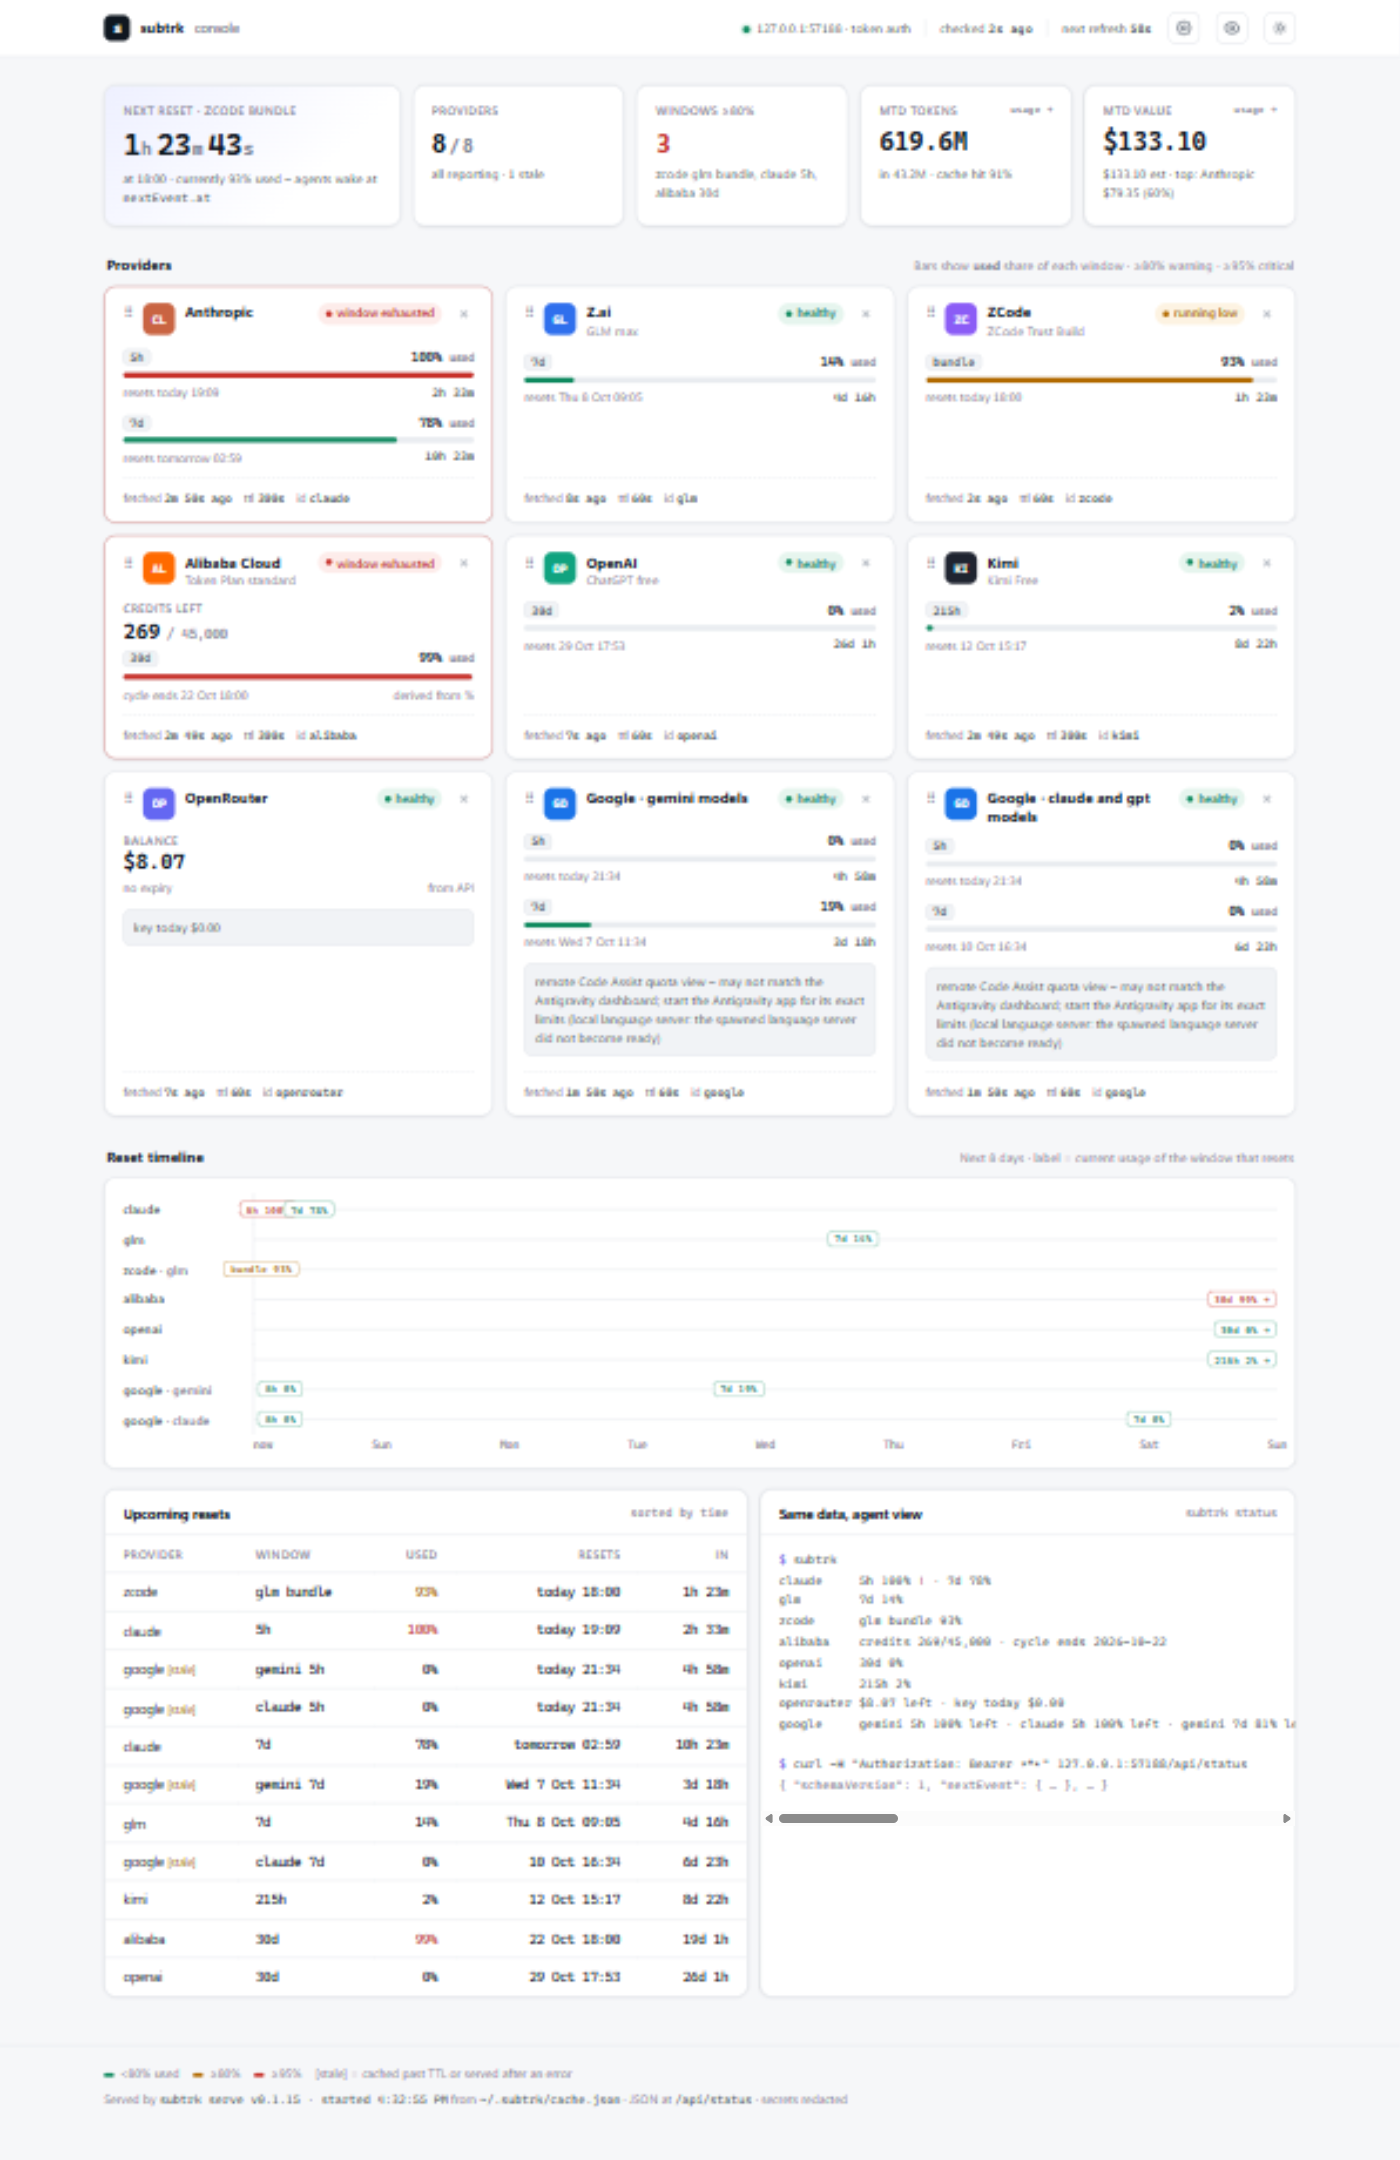
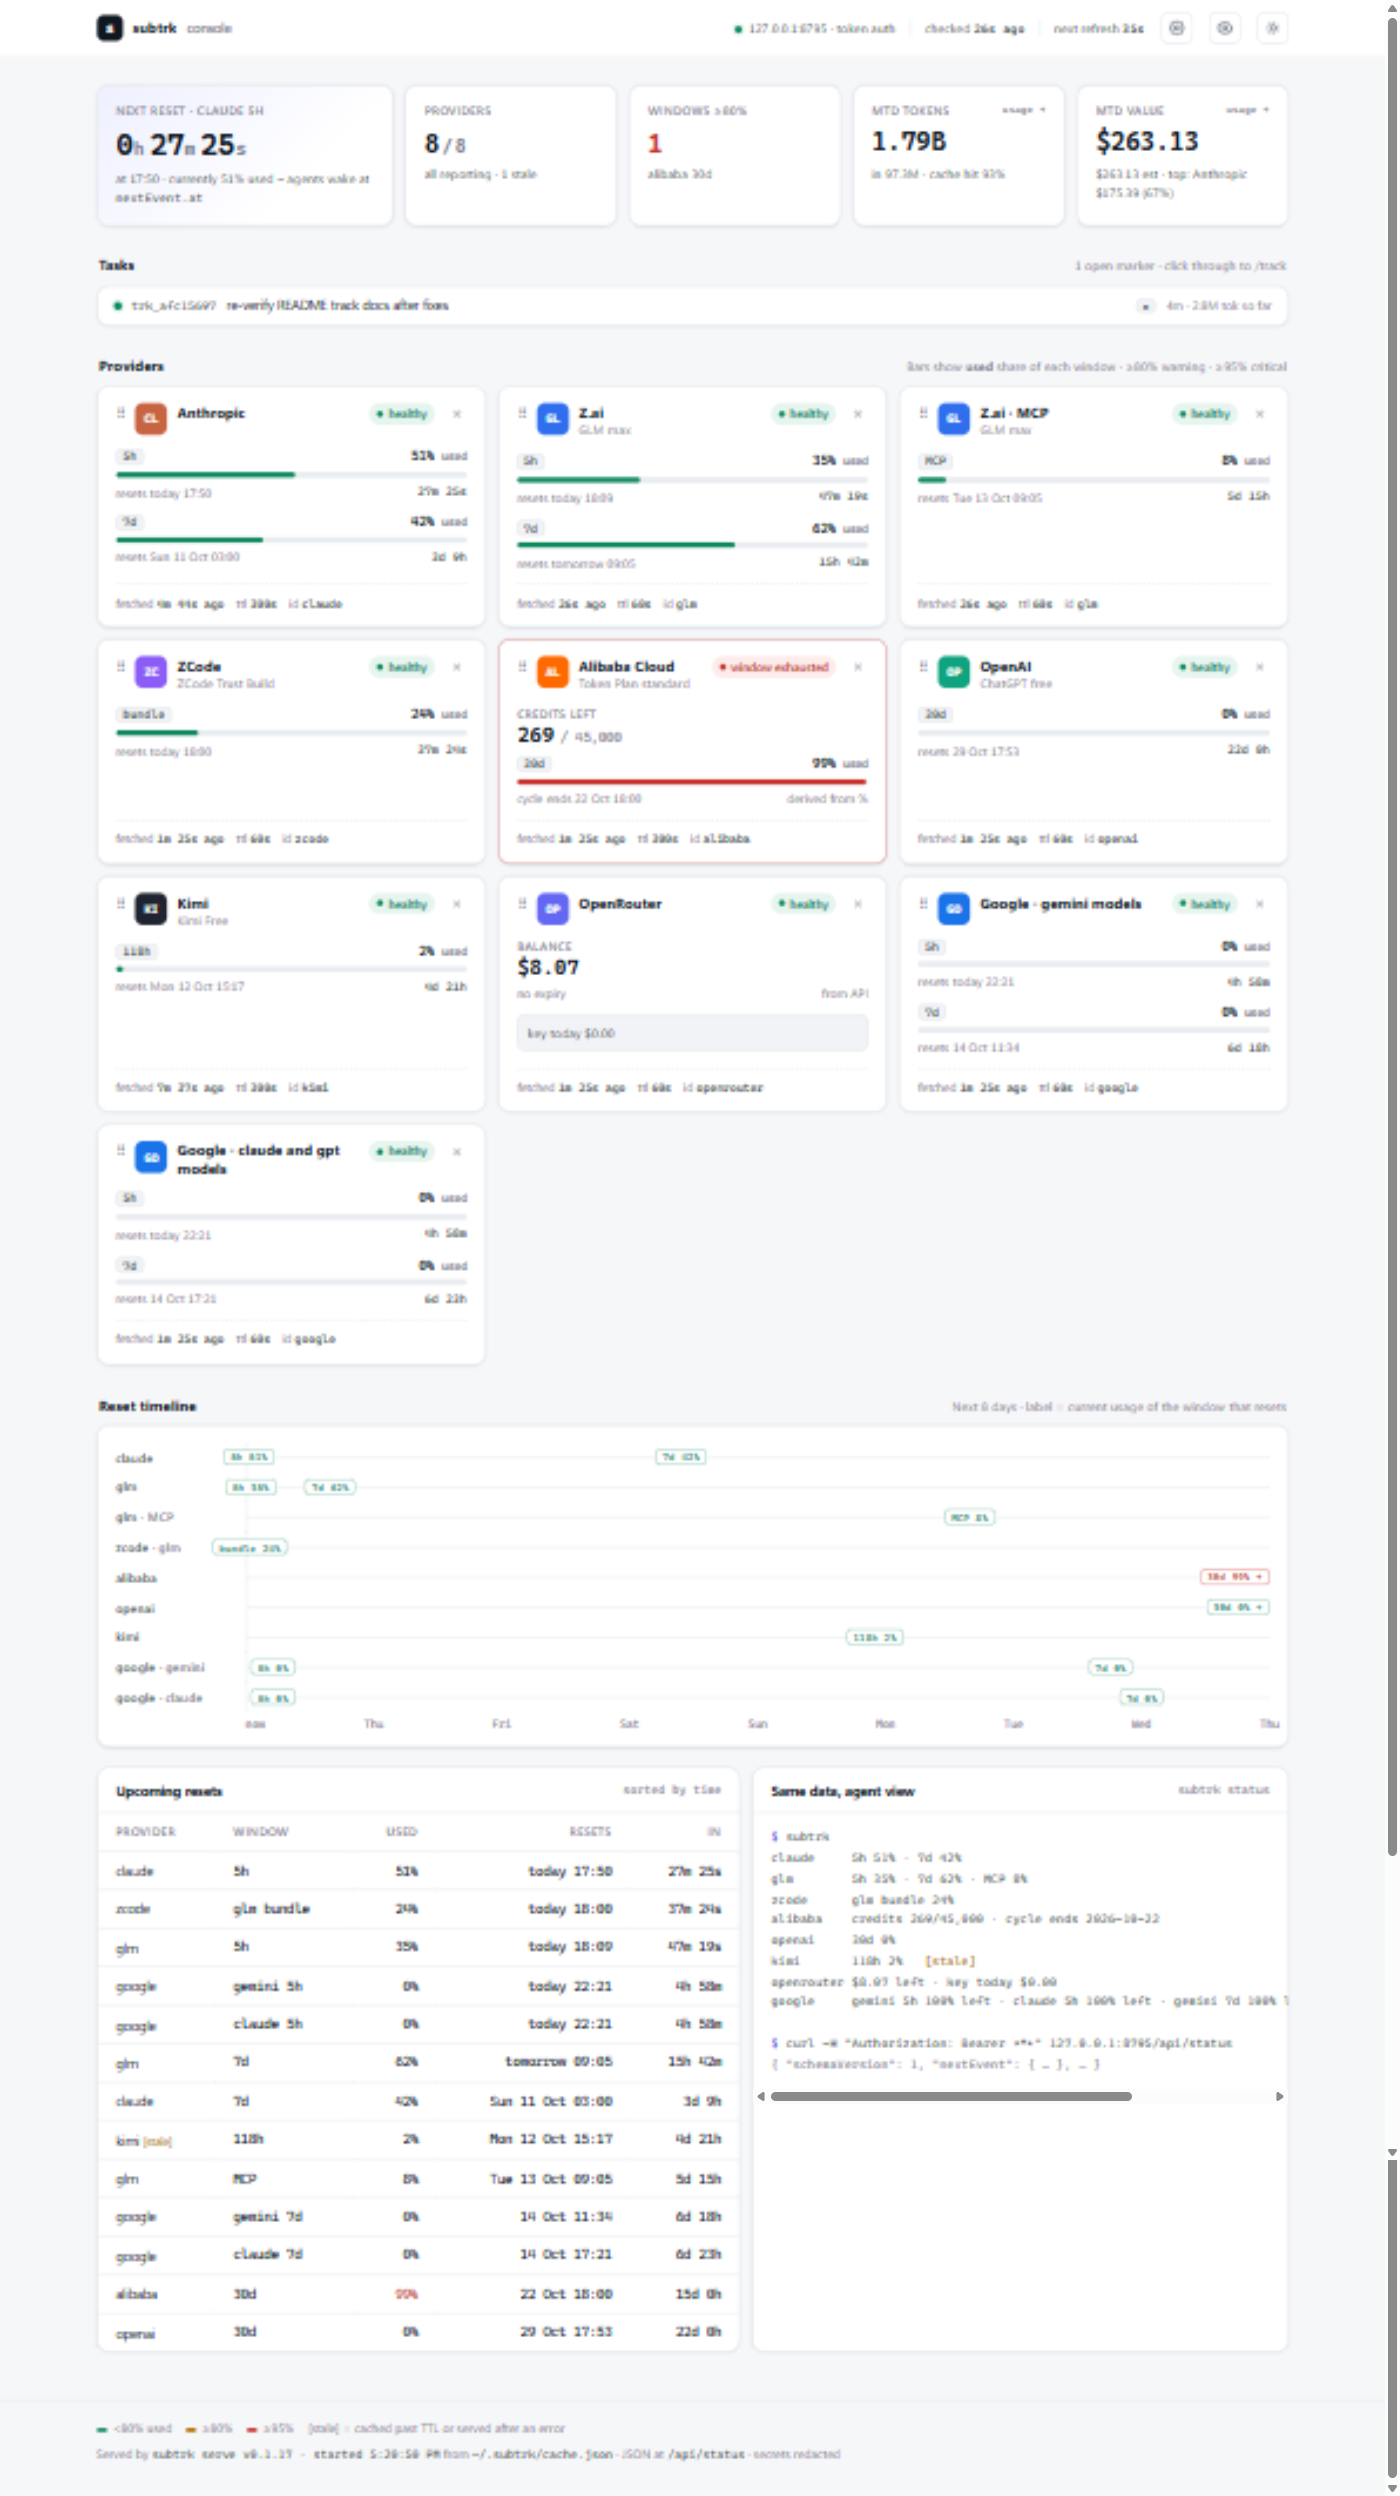
docs: M4b README screenshots + polish from round-2 review
- console.png reshot with the Tasks strip live (real provider data, a
  tracked subagent task running with 2.1M tok so-far); new
  console-track.png for the /track page in the task-tracking section
- chart bars get a 3% height floor so a nonzero value stays visible when
  the column max dwarfs it ($0.005 flash tasks against GLM ones)
- help block: track estimate documents --model, --days states its 1-365
  bound; pickBucket comment matches the five-step chain; README estimate
  example carries the help footer like the real output; spec track-list
  row states the --days bound

Screenshots captured against a temp-dir serve (copies of real cache,
usage and track stores, light mode) while tracked agents ran.

diff --git a/src/console.html b/src/console.html
@@ -1584,7 +1584,9 @@ function trkChartHTML(buckets, field, fmt) {
       .map(m => {
         const p50 = trkPct(cell[m][field], 0.5) ?? 0;
         const p90 = trkPct(cell[m][field], 0.9) ?? p50;
-        const h90 = (p90 / scaleMax) * 100;
+        // 3% floor: a nonzero value must stay visible when the column max
+        // dwarfs it ($0.005 flash tasks against $0.19 GLM ones)
+        const h90 = p90 > 0 ? Math.max(3, (p90 / scaleMax) * 100) : 0;
         const fill = p90 > 0 ? Math.max(6, (p50 / p90) * 100) : 0;
         const color = trkModelColor(m);
         return `<div class="tbarm" style="height:${h90.toFixed(1)}%;border-color:${color}" title="${esc(m)} · p50 ${fmt(p50)} · p90 ${fmt(p90)}"><i style="height:${fill.toFixed(1)}%;background:${color}"></i></div>`;

diff --git a/src/cli.ts b/src/cli.ts
@@ -92,10 +92,11 @@ track flags:
     [--provider <id>]   one provider
     [--complexity <cx>] one bucket
     [--model <name>]    substring filter
-    [--days N]          window (default 30)
+    [--days N]          window (default 30; 1-365)
   track estimate        is the remaining window enough for this kind of task?
     [--provider <id>]   the window to compare against
     [--complexity <cx>] the bucket to estimate (fallback chain shown)
+    [--model <name>]    substring filter on the history models
   track prune           close markers orphaned by crashes/hangs
     [--before 24h]      duration cutoff (d|h|m); default 3d
     [--all]             close every open marker

diff --git a/src/track-stats.ts b/src/track-stats.ts
@@ -222,8 +222,8 @@ const CX_ORDER = ["xs", "s", "m", "l", "xl"];
 
 // Pick the best bucket: exact provider×complexity first, then the adjacent
 // complexities of the same provider (the honest neighbors), then provider
-// only, then global. Prefers n>=3; a smaller n is only used when nothing
-// richer exists, and is flagged lowN.
+// only, then any provider at the same complexity, then global. Prefers n>=3;
+// a smaller n is only used when nothing richer exists, and is flagged lowN.
 function pickBucket(
   records: EnrichedRecord[],
   provider: string | null,

diff --git a/docs/spec.md b/docs/spec.md
@@ -27,7 +27,7 @@ shared cache so concurrent agents never hammer provider endpoints.
 | `subtrk track start --task <text>` | Open a task marker; `--complexity xs\|s\|m\|l\|xl`, `--tags a,b`, `--project <dir>` (default cwd), `--session <id>` pin (restricts the session-window tier to one harness session), `--provider <id>` hint; warns when markers are already open in the project |
 | `subtrk track stop` | Close the newest open marker for this directory (`--id` to pick, `--status done\|aborted\|failed`, `--note`) and harvest its real token usage from local harness stores (§Track store) |
 | `subtrk track status` | Open markers (age, `stale?` past 6h) + records still pending their harvest retry |
-| `subtrk track list` | Recent records, newest first (`--days N`, default 30) |
+| `subtrk track list` | Recent records, newest first (`--days N`, 1-365, default 30) |
 | `subtrk track stats` | Usage distributions per provider × complexity (`--provider`, `--complexity`, `--model`, `--days`); done, leaf, uncontested records only; model-agnostic headline median with min/max/p90 |
 | `subtrk track estimate` | The go/no-go: history p50/p90 for a bucket (fallback chain shown) vs the provider's live window, percent-remaining calibrated into tokens (`--provider`, `--complexity`, `--model`) |
 | `subtrk track prune` | Close markers orphaned by crashed/hung harnesses: default ≥3 days, `--before <dur>` (`24h`, `60m`, `3d`), `--all`; closed as `stale` with the harvest still attempted |

diff --git a/README.md b/README.md
@@ -258,12 +258,15 @@ subtrk track estimate --provider glm --complexity m
 # window    glm 5h · 18% left (reset 14:05Z)
 #   ≈ 1.29M tok remaining  (calibrated: 5.9M consumed at 82% → capacity 7.2M)
 # verdict   median fits · p90 does not — split the task or switch model
+# help: subtrk track estimate --json | subtrk track start --task <text>
 ```
 
 On the dashboard, open markers show as a **Tasks** strip (live so-far usage
 included) that clicks through to the `/track` page: last 15 tasks, usage by
 complexity per tracked model in tokens and est value, and the distributions
 table.
+
+![Task tracking](docs/img/console-track.png)
 
 Records live in `~/.subtrk/track.json` and carry honesty flags rather than
 guesses: `nested` when one task ran inside another's window, `contested` when
